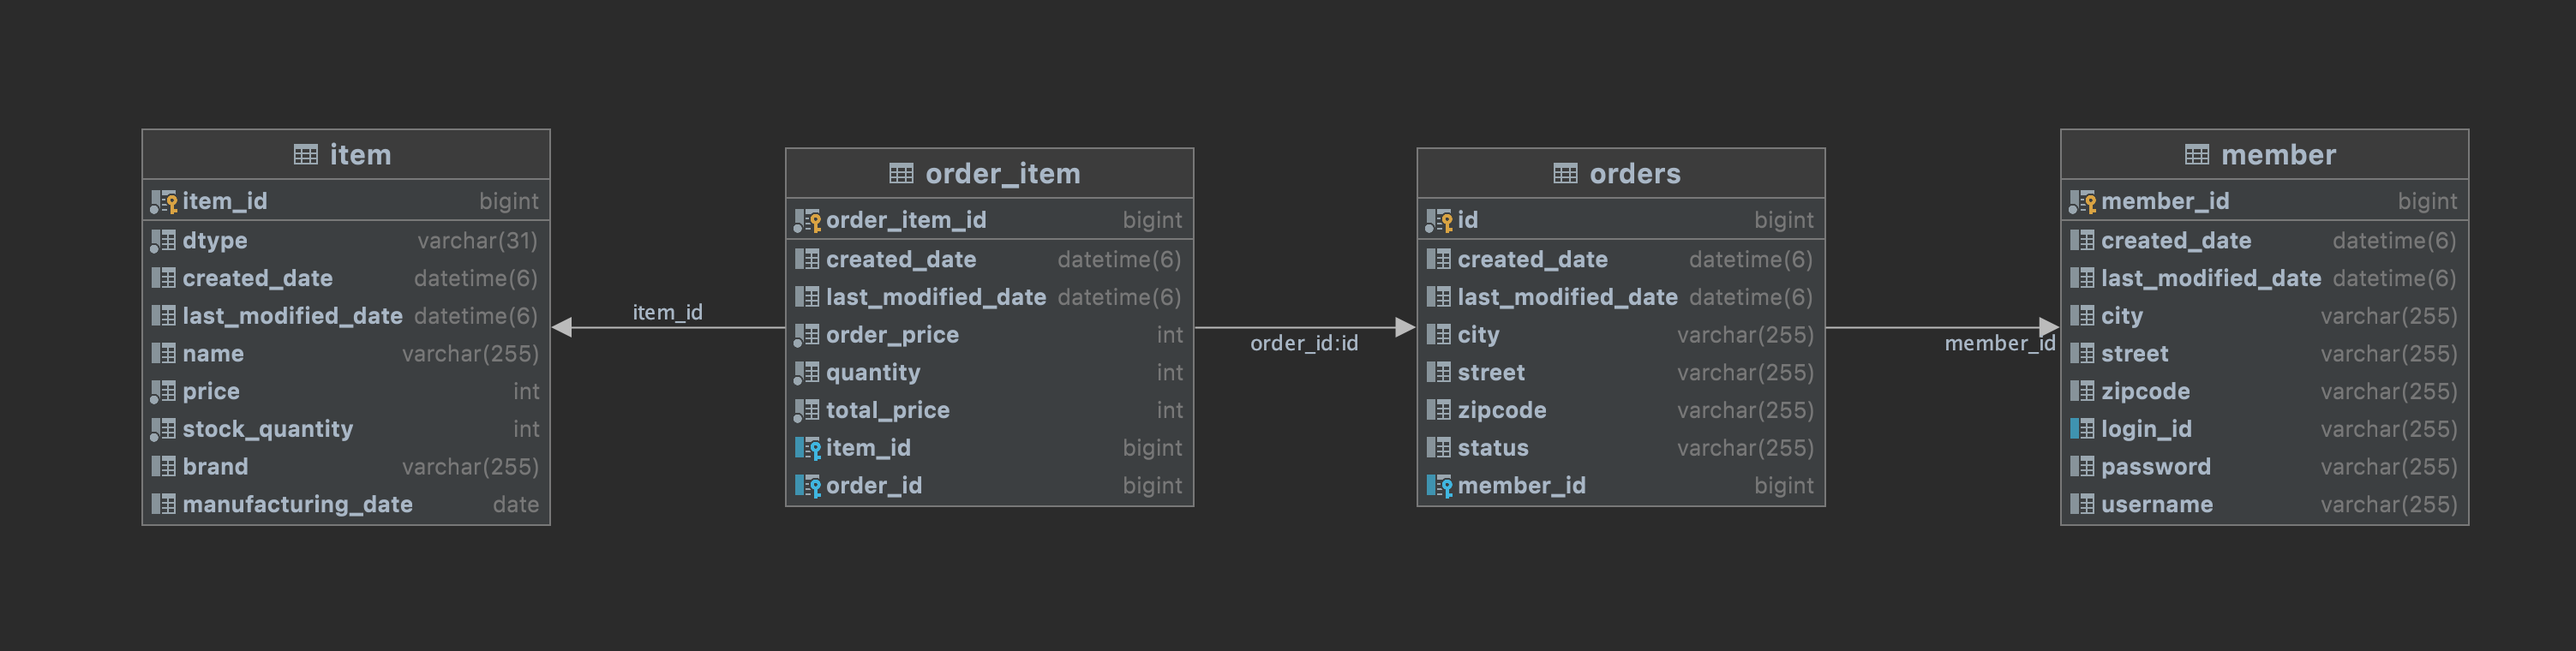
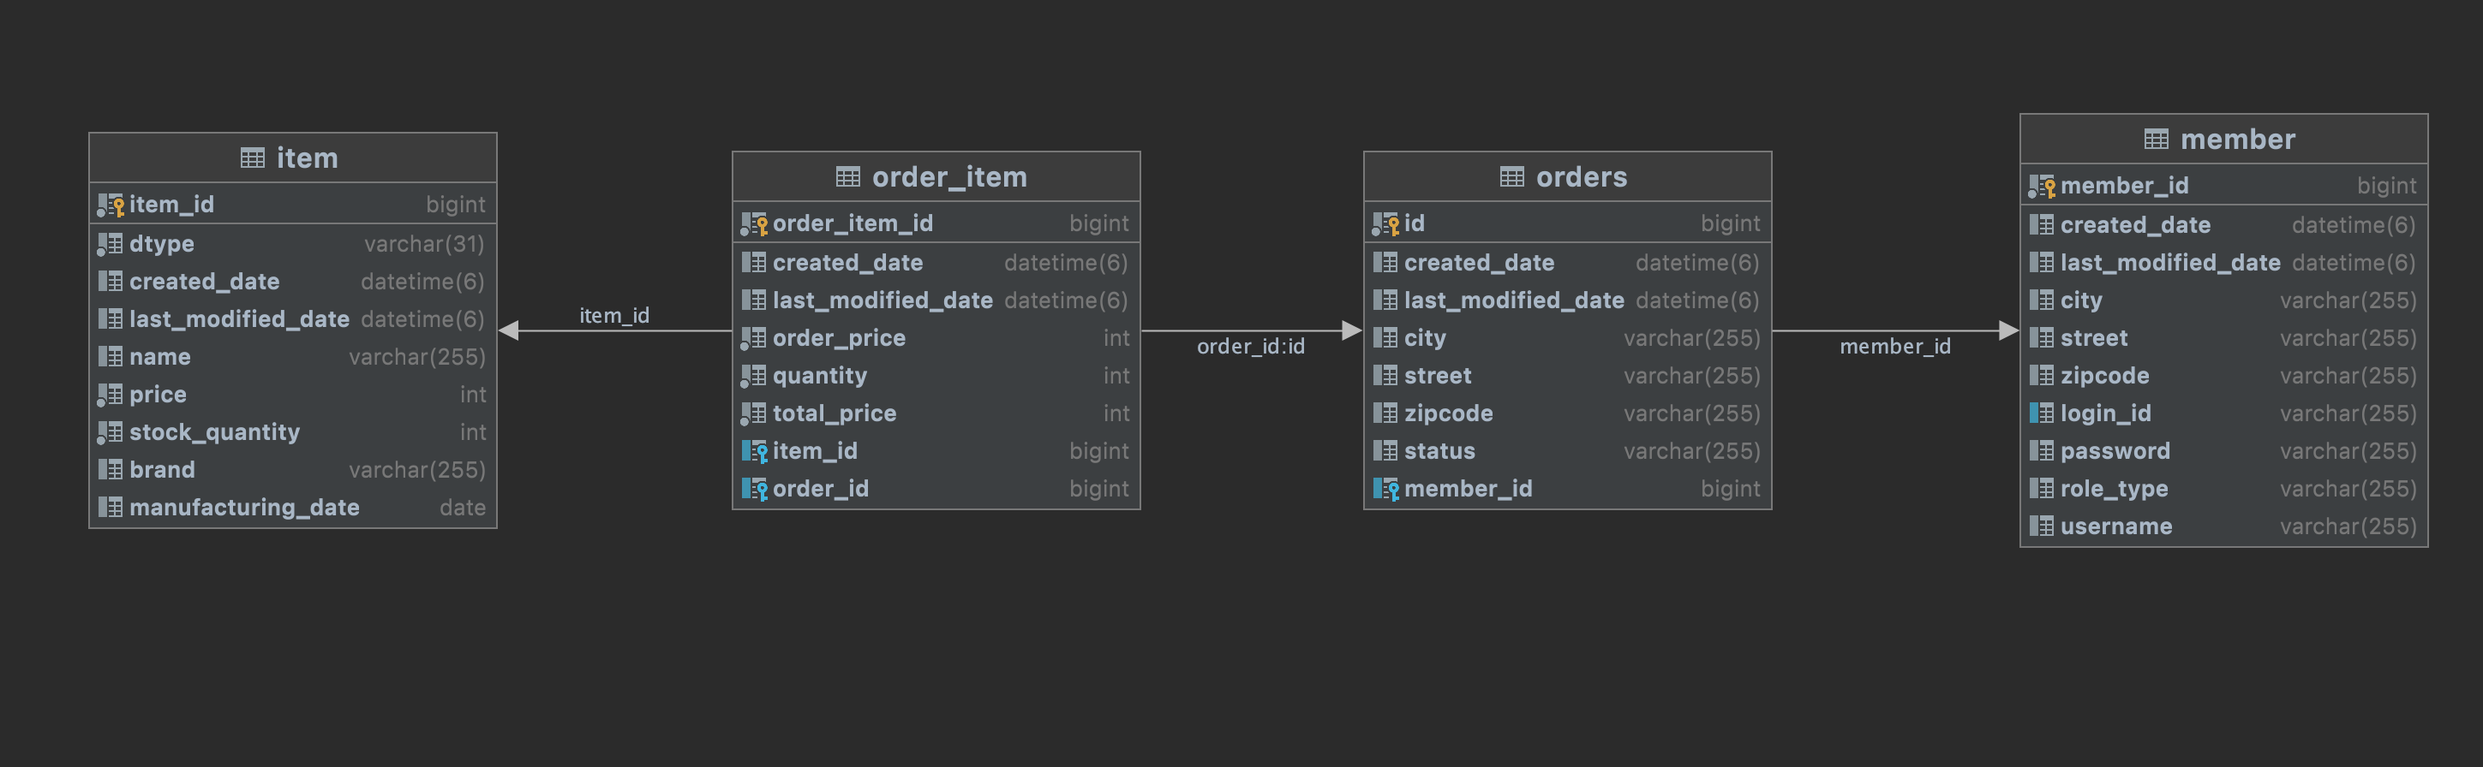
read me update

diff --git a/README.md b/README.md
@@ -1,4 +1,4 @@
-# Toy Project 주문 시스템(Order By Spring)
+# Toy Project 주문 시스템 (Order By Spring)
 
 
 
@@ -6,7 +6,7 @@
 
 
 
-- 프로젝트 명 Order By Spring
+- 그동안 공부했던 기술들을 Test 한다.
 
 - 주문 시스템을 구현하는 것을 목표로 한다. ( 상품의 경우 배송이 가능한 상품으로 제작 )
 - Spring에서 Entity가 아닌 Dto 로 반환하여 필요한 엔티티 구조가 넘어가지 않게 한다.
@@ -19,22 +19,29 @@
 
 
 
-## 사용 기술 스택( 추가 가능 )
+## 사용 기술 스택
 
 
 
-- Front
-  - Html/ Css / javascript / vue.js ...
+- Backend
+  - java 8, Spring Data Jpa, Jpa, QueryDsl, Spring MVC
+  
+    
 
+- Frontend
 
+  - Html/ Css / javascript / Thymeleaf
 
-- Back
-  - java 8, Spring Data Jpa, Jpa, QueryDsl(09/17 추가), Spring MVC...
-
-
+  
 
 - Database
   - Mysql8.0
+  
+    
+  
+- Others
+
+  - AWS - EC2 / RDS
 
 
 
@@ -46,7 +53,9 @@
 
 
 
-## Order By Spring 의 기능
+
+
+## Order By Spring 의 구현된 기능 및 History
 
 
 
@@ -91,20 +100,54 @@
 
   
 
-- admin page view 구현, admin page내 로그인 관련 기능 구현
+- user page view 구현, user page내 로그인 관련 기능 구현 (10/8)
 
   - 로그인 관련 기능
     - 로그인
+    
     - 회원 가입
+    
     - 회원 정보 수정
+    
     - 로그 아웃
+    
+      
+  
+- Order List View & 주문 수정 기능 구현 (10/10)
+
+  
+
+- 주문 및 아이템 View 구현(10/11)
+
+  - 아이템 등록
+  - 아이템 수정
+  - 아이템 리스트 / 리스트 탐색
+  - 주문
+  - UI 개선
+
+  
+
+- AWS 배포(10/13)
+
+  - EC2 / RDS 를 통한 배포
+
+  
+
+- Admin Page 구현(10/16)
+
+  - 주문 상태 변경 가능(admin 만 가능
+  - member객체에 RoleType 추가
+
+  
+
+  
 
 
 
 
 
 
-## Entity Graph
+## 전체 Entity Graph
 
 ![EntityGraph](./EntityGraph.png)
 
